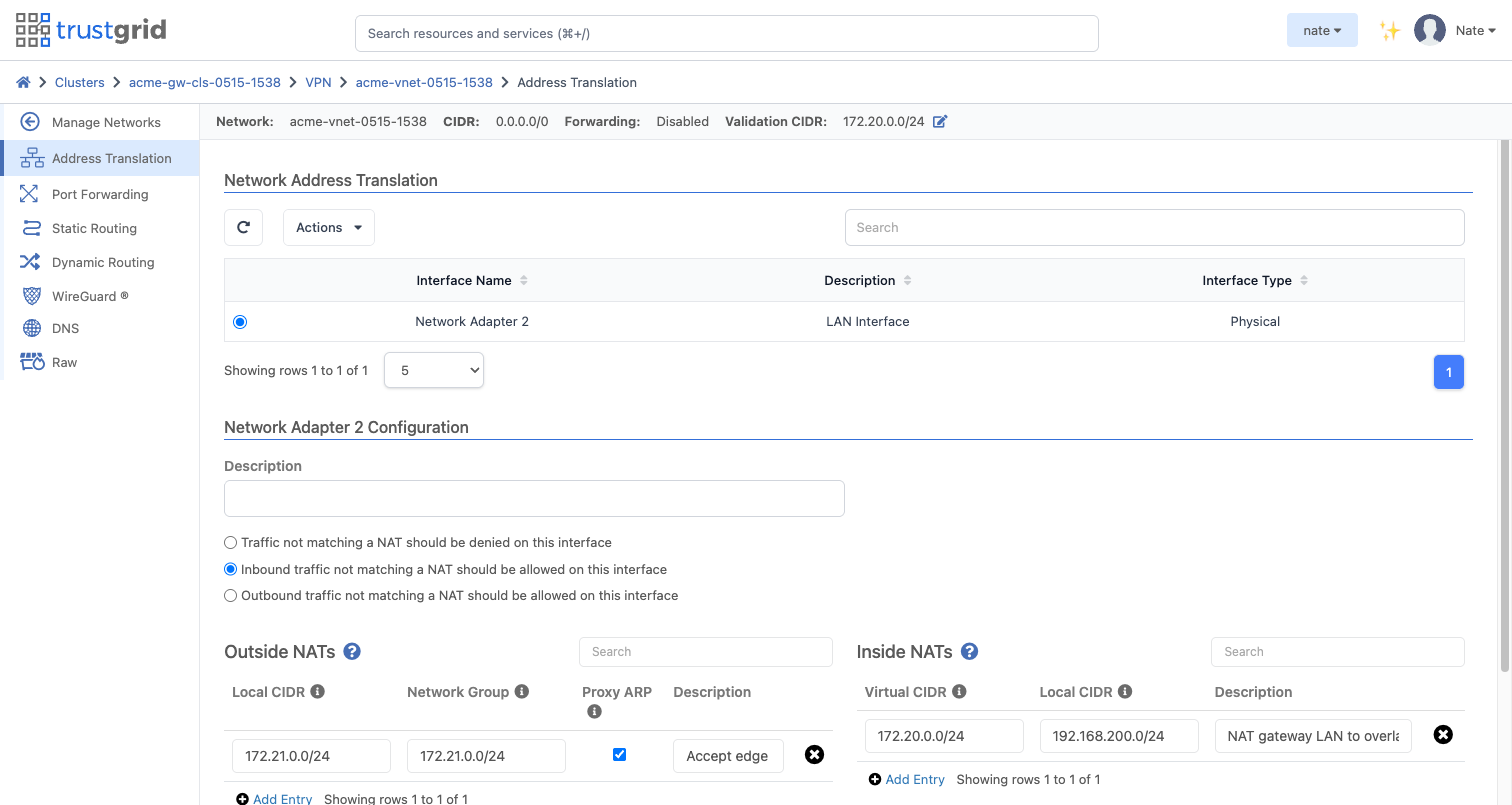
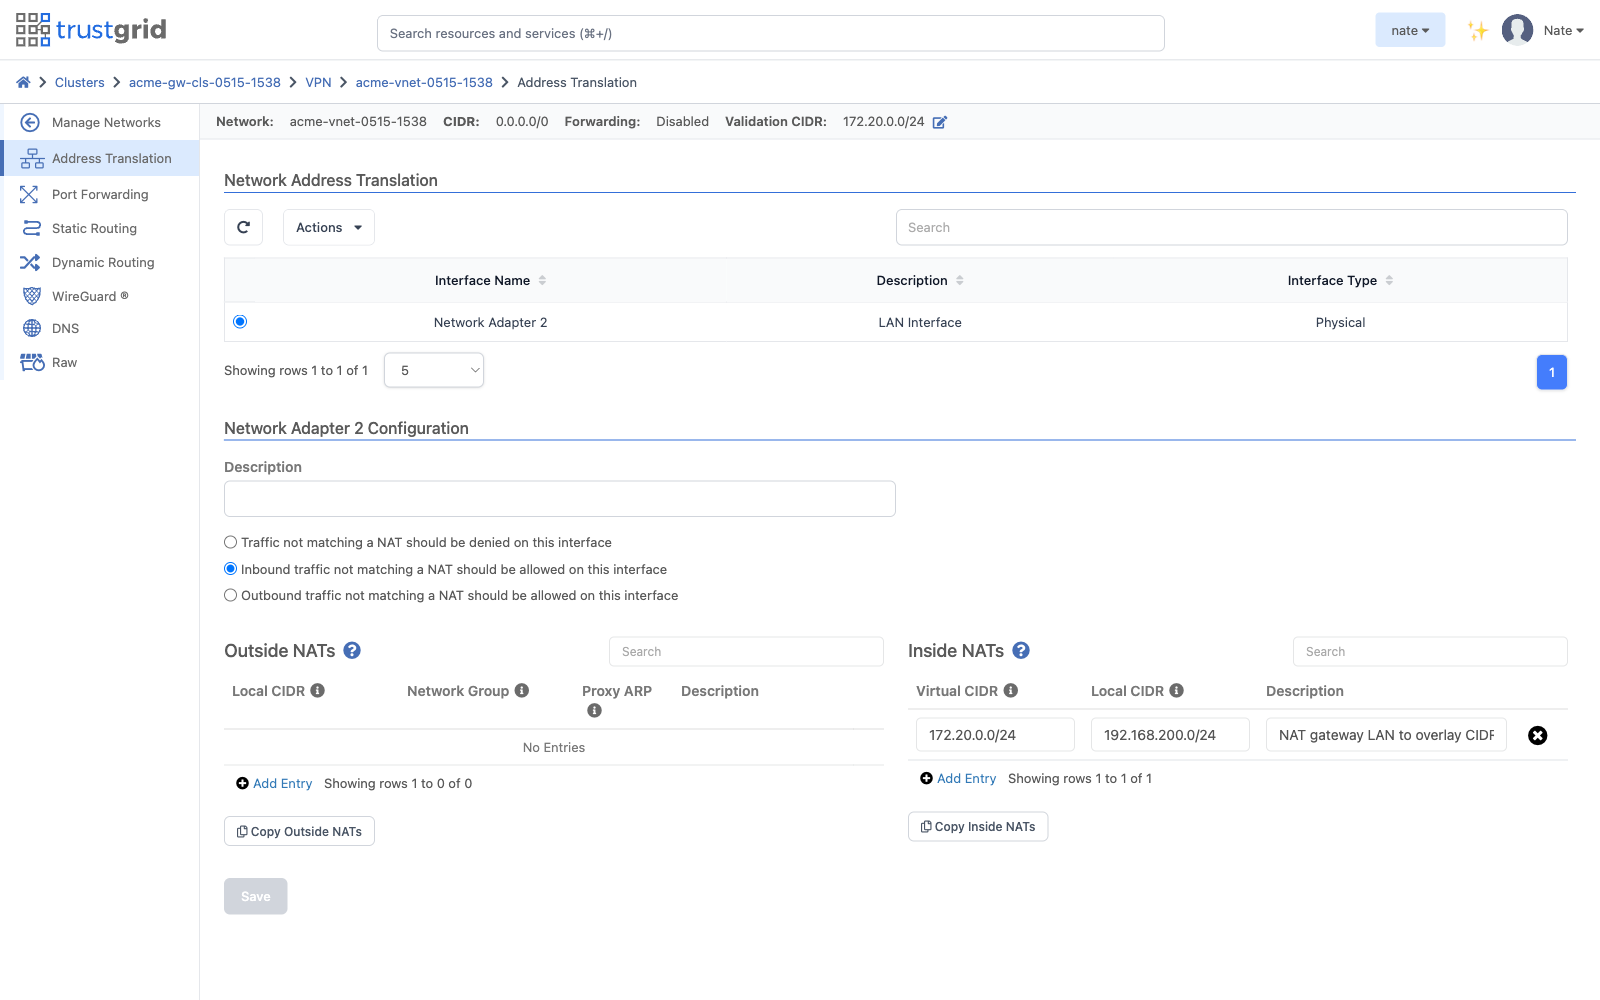
expose-over-vpn: split gateway attach into cluster + interface steps
- Step 5: dedicated Review Changes step with one screenshot covering routes and ACLs together
- Step 6: cluster-level vnet attach (new tutorial-gw-cluster-attach.png)
- Step 7: LAN interface attach + Inside NAT (retook tutorial-gw-vpn-nats.png without the stale Outside NAT)
- Renumber subsequent steps

diff --git a/content/en/tutorials/containers/expose-over-vpn/index.md b/content/en/tutorials/containers/expose-over-vpn/index.md
@@ -1,6 +1,6 @@
 ---
 title: "Expose a Container over a Virtual Network"
-description: Connect a container to a Trustgrid virtual network so it's reachable from another site — the overlay is the only inbound path, while the container can still call out to its local LAN and the public internet.
+description: Connect a container to a Trustgrid virtual network so it's reachable from another site.
 ---
 
 This tutorial walks through making a container reachable across sites by attaching it to a Trustgrid virtual network.
@@ -52,6 +52,8 @@ Routes tell the overlay where to send traffic for each destination subnet — pa
 | `172.20.0.0/24` | gateway cluster |
 | `172.21.0.0/24` | edge cluster |
 
+Routes are staged when added — they don't take effect until applied in step 5.
+
 {{<tgimg src="tutorial-vnet-routes.png" caption="Virtual network routes — one per side" width="90%">}}
 
 ## 4. Add access policies
@@ -62,20 +64,42 @@ Trustgrid virtual networks are zero trust — all traffic is denied by default. 
 | --- | --- | --- | --- | --- |
 | `tcp` | `172.20.0.0/24` (fintech slice) | `172.21.0.10/32` (container VIP) | `80` | Allow |
 
+Like routes, the rule is staged when added.
+
 {{<tgimg src="tutorial-vnet-policies.png" caption="A single scoped allow rule — fintech site to the acme-api container on port 80" width="90%">}}
 
-## 5. Attach virtual network to gateway cluster interface
+## 5. Review and apply the staged changes
+
+Open **Review Changes** for the virtual network. The three staged adds — both routes and the access policy — are listed together. Click **Apply Changes** to commit them all at once.
+
+{{<tgimg src="tutorial-vnet-review-changes.png" caption="All three staged changes — two routes and one access policy — applied together from Review Changes" width="90%">}}
+
+## 6. Attach the virtual network to the gateway cluster
 
 **Clusters → Gateway Cluster → Network → VPN → Actions → Attach**
 
 - Virtual Network: `acme-vnet-0515-1538`
 - Validation CIDR: `172.20.0.0/24`
-- Interface: gateway-side LAN NIC (e.g. `ens192`)
-- Inside NAT: `172.20.0.0/24 ← 192.168.200.0/24`
 
-{{<tgimg src="tutorial-gw-vpn-nats.png" caption="Gateway cluster VPN attachment" width="90%">}}
+The validation CIDR is the slice of the overlay this cluster is allowed to NAT into — it must match the route added in step 3.
 
-## 6. Attach the virtual network to the edge cluster
+{{<tgimg src="tutorial-gw-cluster-attach.png" caption="The virtual network attached to the gateway cluster, with its validation CIDR" width="90%">}}
+
+## 7. Attach the LAN interface and configure the NAT
+
+With the virtual network attached at the cluster level, open it and go to **Address Translation**. Select the LAN interface that the fintech app uses to reach the appliance, then add an Inside NAT that maps the fintech LAN to the overlay:
+
+| Field | Value |
+| --- | --- |
+| Interface | gateway-side LAN NIC (e.g. `Network Adapter 2`) |
+| Inside NAT — Virtual CIDR | `172.20.0.0/24` |
+| Inside NAT — Local CIDR | `192.168.200.0/24` |
+
+The Inside NAT means: when a host on `192.168.200.0/24` sends traffic into the overlay, it appears on the overlay as the matching address in `172.20.0.0/24`.
+
+{{<tgimg src="tutorial-gw-vpn-nats.png" caption="The LAN interface attached to the virtual network with the Inside NAT mapping the fintech LAN to the overlay slice" width="90%">}}
+
+## 8. Attach the virtual network to the edge cluster
 
 **Clusters → Edge Cluster → Network → VPN → Actions → Attach**
 
@@ -84,7 +108,7 @@ Trustgrid virtual networks are zero trust — all traffic is denied by default. 
 
 {{<tgimg src="tutorial-edge-vpn-nats.png" caption="Edge cluster VPN attachment" width="90%">}}
 
-## 7. Attach the container to the virtual network
+## 9. Attach the container to the virtual network
 
 Open the container on the edge cluster → **Network → Virtual Networks → Add Entry**:
 